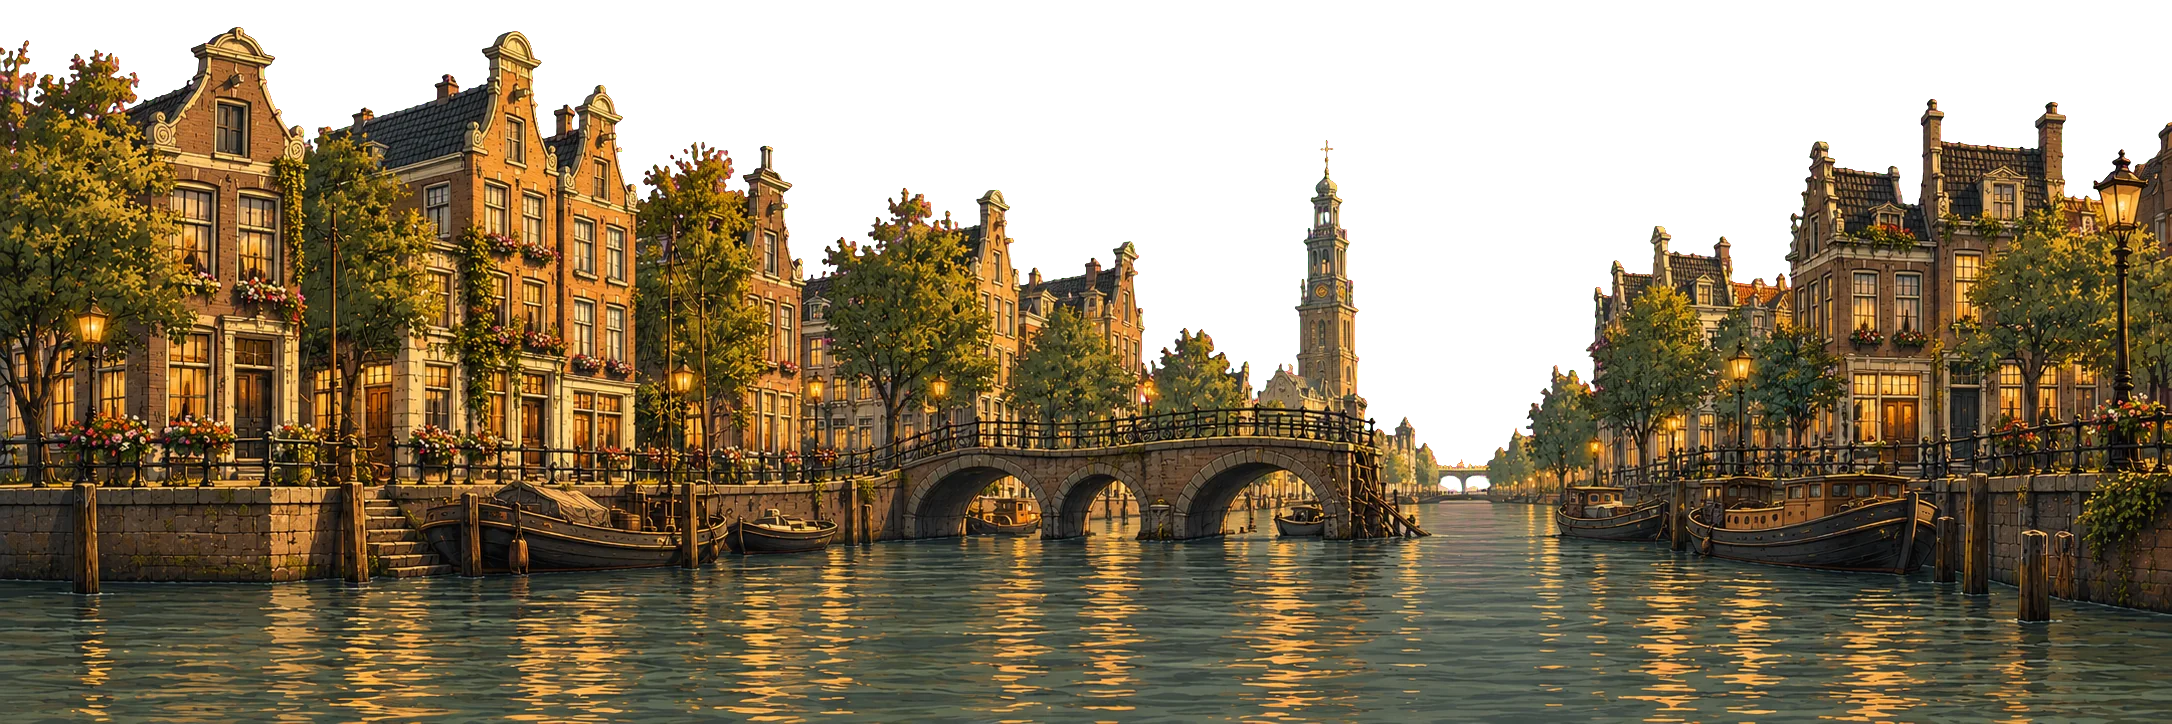
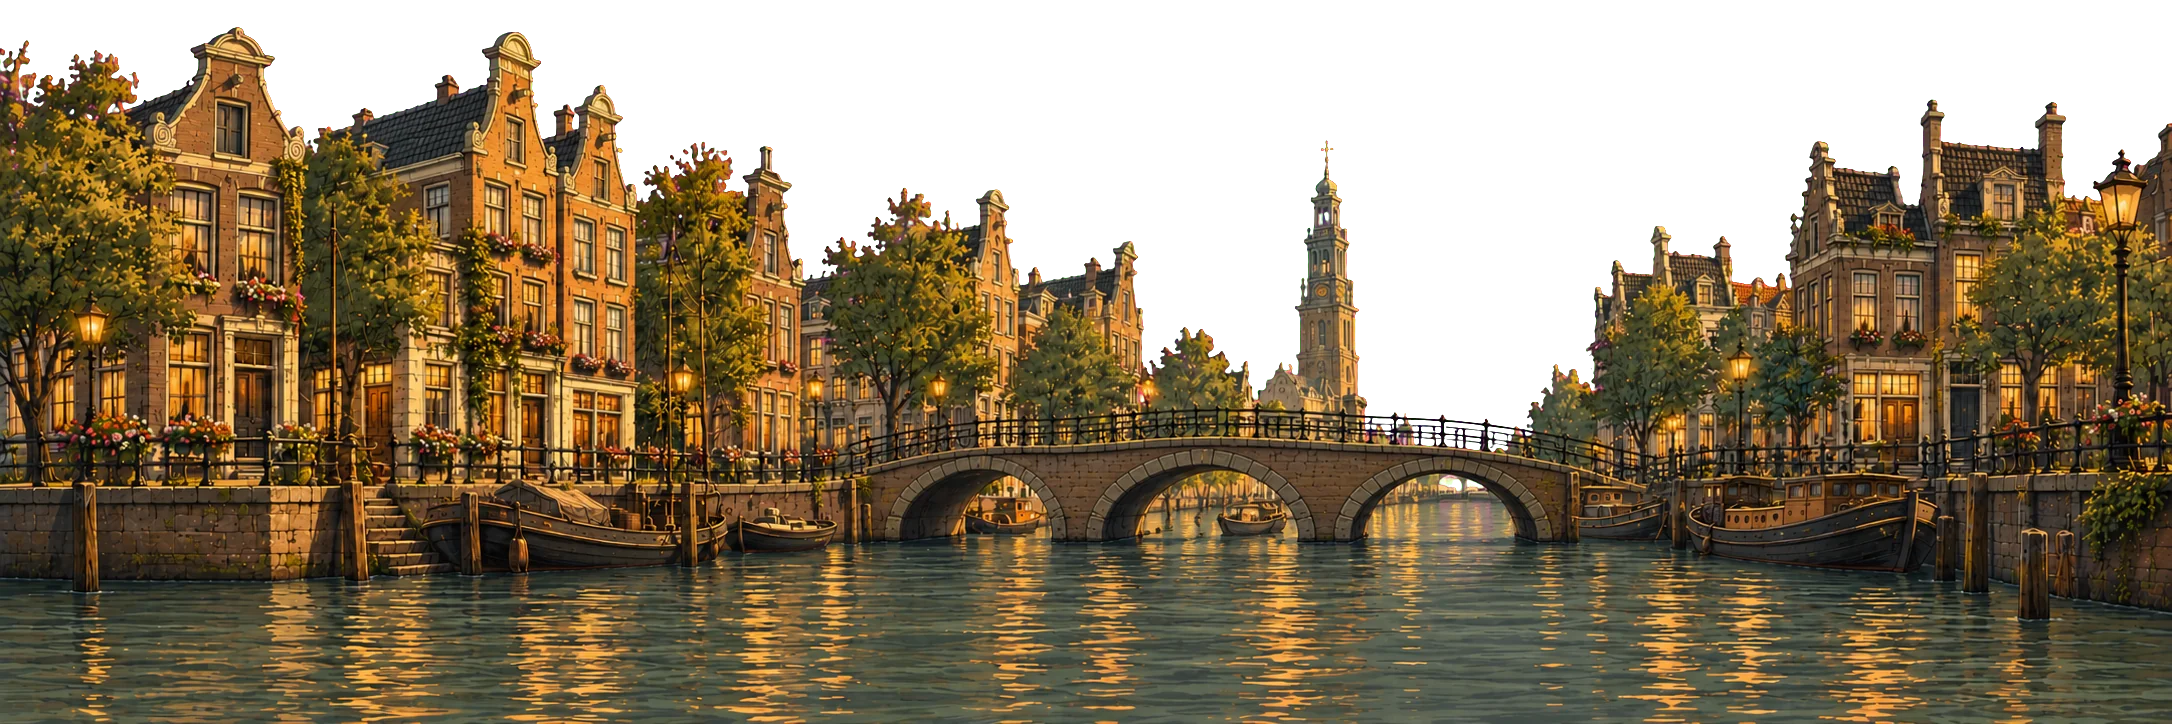
Replace past canal layer with the intact bridge
The bridge in past-street/far was broken on the right (copied from the ruined
future layout). New source image: past/Intact Three-Arched Canal Bridge.png.

Changed region(s): [[0.0, 0.0304, 1.0, 1.0], [0.5861, 0.3646, 0.6478, 0.4254], [0.5861, 0.2735, 0.6169, 0.3343]]

diff --git a/scripts/import_art.py b/scripts/import_art.py
@@ -38,7 +38,7 @@ ARM_LEG = ["upper-arm-1", "torso", "upper-arm-2", "lower-arm-1", "lower-arm-2", 
 ASSETS = [
     # Past street (parallax, back to front)
     ("past/Serene Golden-Hour Cloudscape.png", "opaque", "past-street/sky", {}),
-    ("past/Magenta-Sky Amsterdam Canal at Golden Hour.png", "layer", "past-street/far", {}),
+    ("past/Intact Three-Arched Canal Bridge.png", "layer", "past-street/far", {}),
     ("past/Golden-Hour Canal Music Shop.png", "layer", "past-street/walk", {}),
     ("past/Magenta Garden Silhouette Frame.png", "layer", "past-street/foreground", {}),
     # Future street
